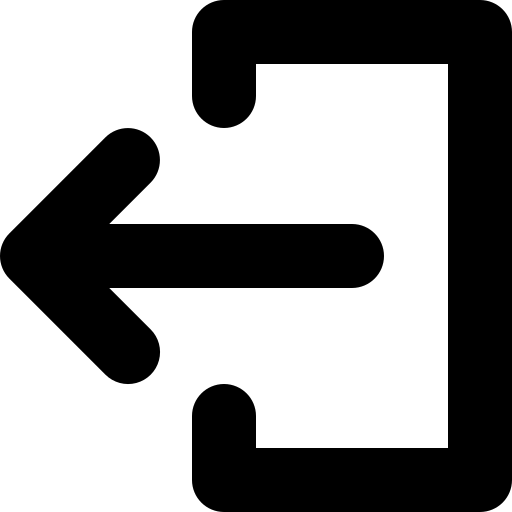
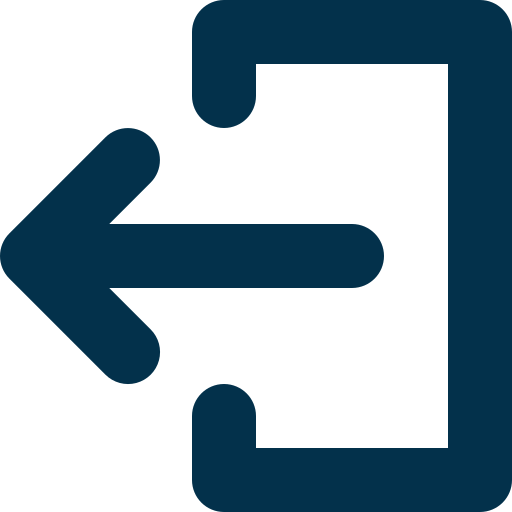
Scheduling malinga 3 (#56)
* if requestStates is 0 it will navigate to login page

* css changes

* session storage update

* link to profile update page

* navbar updated

* icon color

* bueOwnerPage and TrainOwner Page report button added

diff --git a/ticketmate/src/Pages/TrainOwnerPage/TrainOwnerPage.tsx b/ticketmate/src/Pages/TrainOwnerPage/TrainOwnerPage.tsx
@@ -1,6 +1,6 @@
 import React, { useState, useEffect } from 'react';
 import { useLocation } from 'react-router-dom';
-import PrimaryNavBar from '../../Components/NavBar/PrimaryNavBar';
+import PrimaryNavBar from '../../Components/NavBar/PrimaryNavBar-logout';
 import ProfileSection from '../../Components/ProfileSection/ProfileSection';
 import SquareButton from '../../Components/Buttons/SquareButton/SquareButton';
 import './TrainOwnerPage.css';
@@ -136,6 +136,8 @@ function TrainOwnerPage() {
         return <RegLocomotiveInfoSec id={userData.id} />;
       case 'RegCarriages':
         return <RegCarriagesInfoSec id={userData.id} />;
+      case 'Reports':
+        return <RegCarriagesInfoSec id={userData.id} />;
       default:
         return null;
     }
@@ -173,6 +175,9 @@ function TrainOwnerPage() {
               </button>
               <button className={`btn btn-primary secButton ${buttonStates.RegCarriages ? 'active' : ''}`} onClick={() => handleButtonClick('RegCarriages')}>
                 Registered Carriages
+              </button>
+              <button className={`btn btn-primary secButton ${buttonStates.Reports ? 'active' : ''}`} onClick={() => handleButtonClick('Reports')}>
+                Reports
               </button>
             </div>
             <div className='p-4 rounded-4' style={{ background: '#F1F1F1' }}>

diff --git a/ticketmate/src/Pages/BusOwnerPage/BusOwnerPage.tsx b/ticketmate/src/Pages/BusOwnerPage/BusOwnerPage.tsx
@@ -225,9 +225,9 @@ function BusOwnerPage() {
               <button className={`btn btn-primary secButton ${buttonStates.RegisteredBuses ? 'active' : ''}`} onClick={() => handleButtonClick('RegisteredBuses')}>
                 Registered Buses
               </button>
-              {/* <button className={`btn btn-primary secButton ${buttonStates.Reports ? 'active' : ''}`} onClick={() => handleButtonClick('Reports')}>
+              <button className={`btn btn-primary secButton ${buttonStates.Reports ? 'active' : ''}`} onClick={() => handleButtonClick('Reports')}>
                 Reports
-              </button> */}
+              </button>
             </div>
             <div className='p-4 rounded-4' style={{ background: '#F1F1F1' }}>
               {renderSelectedComponent()}

diff --git a/ticketmate/src/Pages/BusSchedulePage/BusSchedulePage.tsx b/ticketmate/src/Pages/BusSchedulePage/BusSchedulePage.tsx
@@ -1,6 +1,6 @@
 import React, { useState } from 'react';
 import './BusSchedulePage.css';
-import PrimaryNavBar from '../../Components/NavBar/PrimaryNavBar';
+import PrimaryNavBar from '../../Components/NavBar/PrimaryNavBar-logout';
 import BusScheduleForm from '../../Components/BusScheduleForm/BusScheduleForm';
 import BusScheduleForm2 from '../../Components/BusScheduleForm/BusScheduleForm2';
 import BusScheduleForm3 from '../../Components/BusScheduleForm/BusScheduleForm3';

diff --git a/ticketmate/src/Pages/UpdateCarriageRegInfoPage/UpdateCarriageRegInfoPage.tsx b/ticketmate/src/Pages/UpdateCarriageRegInfoPage/UpdateCarriageRegInfoPage.tsx
@@ -6,7 +6,7 @@ import axios from 'axios';
 import SelectBusSeatStructureCarr from '../../Components/SelectBusSeatStructureCarr/SelectBusSeatStructureCarr';
 import Swal from 'sweetalert2';
 import { useLocation, useNavigate } from 'react-router-dom';
-import PrimaryNavBar from '../../Components/NavBar/PrimaryNavBar';
+import PrimaryNavBar from '../../Components/NavBar/PrimaryNavBar-logout';
 import Footer from '../../Components/Footer/footer';
 
 interface ApiResponse {

diff --git a/ticketmate/src/Pages/RegisteredLocomitivePage/RegisteredLocomitivePage.tsx b/ticketmate/src/Pages/RegisteredLocomitivePage/RegisteredLocomitivePage.tsx
@@ -1,7 +1,7 @@
 import React, { useEffect, useState } from 'react'
 import './RegisteredLocomitivePage.css'
 import Footer from '../../Components/Footer/footer'
-import PrimaryNavBar from '../../Components/NavBar/PrimaryNavBar'
+import PrimaryNavBar from '../../Components/NavBar/PrimaryNavBar-logout'
 import TrainImg from '../../assets/Train Icon.png'
 import Wheel from '../../assets/steering-wheel (1).png'
 import BackIcon from '../../assets/ion_arrow-back-circle.png'

diff --git a/ticketmate/src/Pages/RegisteredBusPage/RegisteredBusPage.tsx b/ticketmate/src/Pages/RegisteredBusPage/RegisteredBusPage.tsx
@@ -1,7 +1,7 @@
 import React, { useEffect, useState } from 'react'
 import './RegisteredBusPage.css'
 import Footer from '../../Components/Footer/footer'
-import PrimaryNavBar from '../../Components/NavBar/PrimaryNavBar'
+import PrimaryNavBar from '../../Components/NavBar/PrimaryNavBar-logout'
 import BusImg from '../../assets/BusIconRegBusPage.png'
 import Wheel from '../../assets/steering-wheel (1).png'
 import BackIcon from '../../assets/ion_arrow-back-circle.png'

diff --git a/ticketmate/src/Pages/RegisteredCarriagePage/RegisteredCarriagePage.tsx b/ticketmate/src/Pages/RegisteredCarriagePage/RegisteredCarriagePage.tsx
@@ -1,7 +1,7 @@
 import React, { useEffect, useState } from 'react'
 import './RegisteredCarriagePage.css'
 import Footer from '../../Components/Footer/footer'
-import PrimaryNavBar from '../../Components/NavBar/PrimaryNavBar'
+import PrimaryNavBar from '../../Components/NavBar/PrimaryNavBar-logout'
 import BusImg from '../../assets/RegBusImg.png'
 import Wheel from '../../assets/steering-wheel (1).png'
 import BackIcon from '../../assets/ion_arrow-back-circle.png'

diff --git a/ticketmate/src/Pages/BusScheduleFormUpdatePage/BusScheduleFormUpdatePage2.tsx b/ticketmate/src/Pages/BusScheduleFormUpdatePage/BusScheduleFormUpdatePage2.tsx
@@ -2,7 +2,7 @@ import React, { useState, useEffect } from 'react';
 import Swal from 'sweetalert2';
 import { useNavigate, useLocation } from 'react-router-dom';
 import './BusScheduleFormUpdatePage.css';
-import PrimaryNavBar from '../../Components/NavBar/PrimaryNavBar';
+import PrimaryNavBar from '../../Components/NavBar/PrimaryNavBar-logout';
 import Footer from '../../Components/Footer/footer';
 
 function BusScheduleFormUpdatePage2() {

diff --git a/ticketmate/src/Pages/TrainShceduleUpdatePage/TrainShceduleUpdatePage2.tsx b/ticketmate/src/Pages/TrainShceduleUpdatePage/TrainShceduleUpdatePage2.tsx
@@ -2,7 +2,7 @@ import React, { useState, useEffect } from 'react';
 import Swal from 'sweetalert2';
 import { useNavigate, useLocation } from 'react-router-dom';
 import './TrainShceduleUpdatePage.css';
-import PrimaryNavBar from '../../Components/NavBar/PrimaryNavBar';
+import PrimaryNavBar from '../../Components/NavBar/PrimaryNavBar-logout';
 import Footer from '../../Components/Footer/footer';
 
 function TrainShceduleUpdatePage2() {

diff --git a/ticketmate/src/Pages/TrainShceduleUpdatePage/TrainShceduleUpdatePage4.tsx b/ticketmate/src/Pages/TrainShceduleUpdatePage/TrainShceduleUpdatePage4.tsx
@@ -2,7 +2,7 @@ import React, { useEffect, useState } from 'react';
 import Swal from 'sweetalert2';
 import '../../vars.css';
 import { useParams, useNavigate, useLocation } from 'react-router-dom';
-import PrimaryNavBar from '../../Components/NavBar/PrimaryNavBar';
+import PrimaryNavBar from '../../Components/NavBar/PrimaryNavBar-logout';
 import Footer from '../../Components/Footer/footer';
 
 function TrainShceduleUpdatePage4() {

diff --git a/ticketmate/src/Pages/TrainShceduleUpdatePage/TrainShceduleUpdatePage5.tsx b/ticketmate/src/Pages/TrainShceduleUpdatePage/TrainShceduleUpdatePage5.tsx
@@ -2,7 +2,7 @@ import React, { useEffect, useState } from 'react';
 import Swal from 'sweetalert2';
 import '../../vars.css';
 import { useParams, useNavigate, useLocation } from 'react-router-dom';
-import PrimaryNavBar from '../../Components/NavBar/PrimaryNavBar';
+import PrimaryNavBar from '../../Components/NavBar/PrimaryNavBar-logout';
 import Footer from '../../Components/Footer/footer';
 
 function TrainScheduleUpdatePage5() {

diff --git a/ticketmate/src/Pages/UpdateLocomotiveRegInfoPage/UpdateLocomotiveRegInfoPage.tsx b/ticketmate/src/Pages/UpdateLocomotiveRegInfoPage/UpdateLocomotiveRegInfoPage.tsx
@@ -1,6 +1,6 @@
 import React, { useState, useEffect } from 'react';
 import './UpdateLocomotiveRegInfoPage.css';
-import PrimaryNavBar from '../../Components/NavBar/PrimaryNavBar';
+import PrimaryNavBar from '../../Components/NavBar/PrimaryNavBar-logout';
 import Footer from '../../Components/Footer/footer';
 import { ToastContainer, toast } from 'react-toastify';
 import 'react-toastify/dist/ReactToastify.css';
